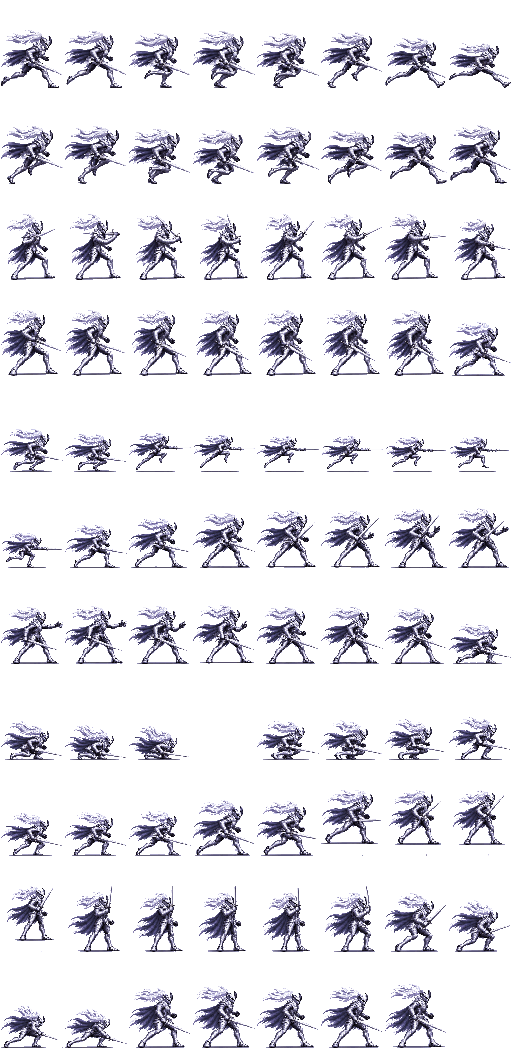
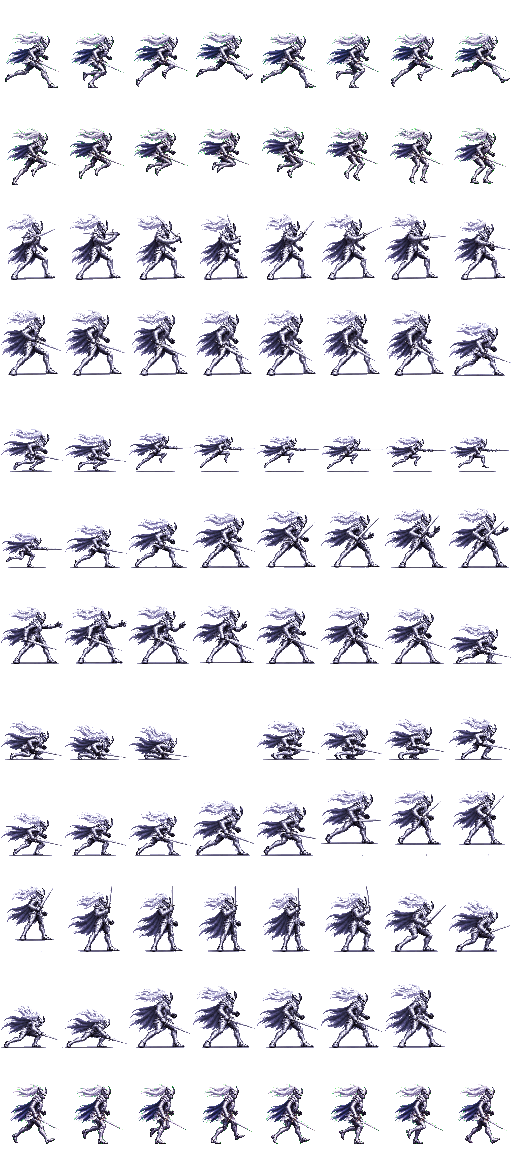
Fix White Night walking, running and jump pose transitions

diff --git a/native-engine/src/presentation.hpp b/native-engine/src/presentation.hpp
@@ -985,10 +985,10 @@ public:
             SDL_SetError("ECLIPSE ASSET ERROR: %s: %s",motionPath.c_str(),cause.c_str());
             return false;
         }
-        if(!SDL_GetTextureSize(motion,&width,&height)||width!=512||height!=1056){
+        if(!SDL_GetTextureSize(motion,&width,&height)||width!=512||height!=1152){
             SDL_DestroyTexture(motion);
             SDL_DestroyTexture(texture);
-            SDL_SetError("ECLIPSE ASSET ERROR: %s expected 512x1056, got %.0fx%.0f",motionPath.c_str(),width,height);
+            SDL_SetError("ECLIPSE ASSET ERROR: %s expected 512x1152, got %.0fx%.0f",motionPath.c_str(),width,height);
             return false;
         }
         SDL_SetTextureScaleMode(motion,SDL_SCALEMODE_NEAREST);
@@ -1401,9 +1401,19 @@ public:
             if(p.whiteMove!=WhiteMove::None){
                 const auto clip=whiteClips[static_cast<int>(p.whiteMove)];
                 whiteFrame=clip.start+std::min(clip.count-1,static_cast<int>(p.whiteAge*clip.count/clip.duration));
-            }else if(a.state==1||a.state==7){
-                whiteFrame=std::clamp(static_cast<int>(a.travelPhase*16),0,15);
-            }else if(!p.grounded)whiteFrame=p.vy<0?7:11;
+            }else if(a.state==7){
+                whiteFrame=3;
+            }else if(!p.grounded){
+                // The takeoff and landing sprites share the same world foot anchor.
+                // Airborne poses progress with vertical velocity, not horizontal travel.
+                const float phase=std::clamp((p.vy+650.f)/1300.f,0.f,1.f);
+                whiteFrame=8+std::min(6,static_cast<int>(phase*7));
+            }else if(a.state==10){
+                whiteFrame=15;
+            }else if(a.state==1||a.state==11){
+                const int start=a.state==11?88:0;
+                whiteFrame=start+std::clamp(static_cast<int>(a.travelPhase*8),0,7);
+            }
             const SDL_FRect source{float(whiteFrame%8*64),float(whiteFrame/8*96),64,96};
             const SDL_FRect dest{std::round(p.x-offset-32*motionScale),std::round(p.y-88*motionScale),64*motionScale,96*motionScale};
             if(p.whiteMove==WhiteMove::Rush&&p.whiteAge>=.125f&&p.whiteAge<.36f){
